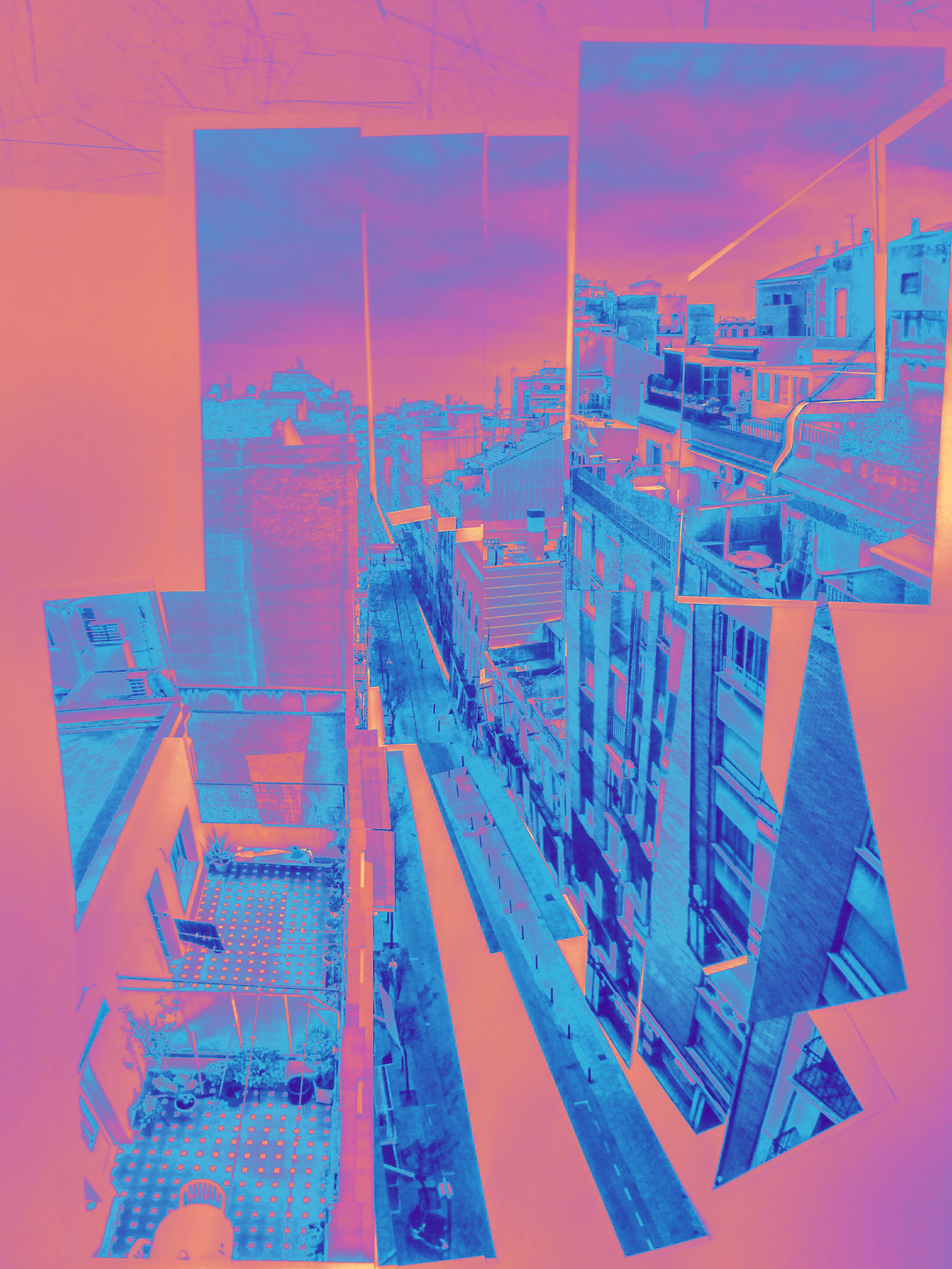
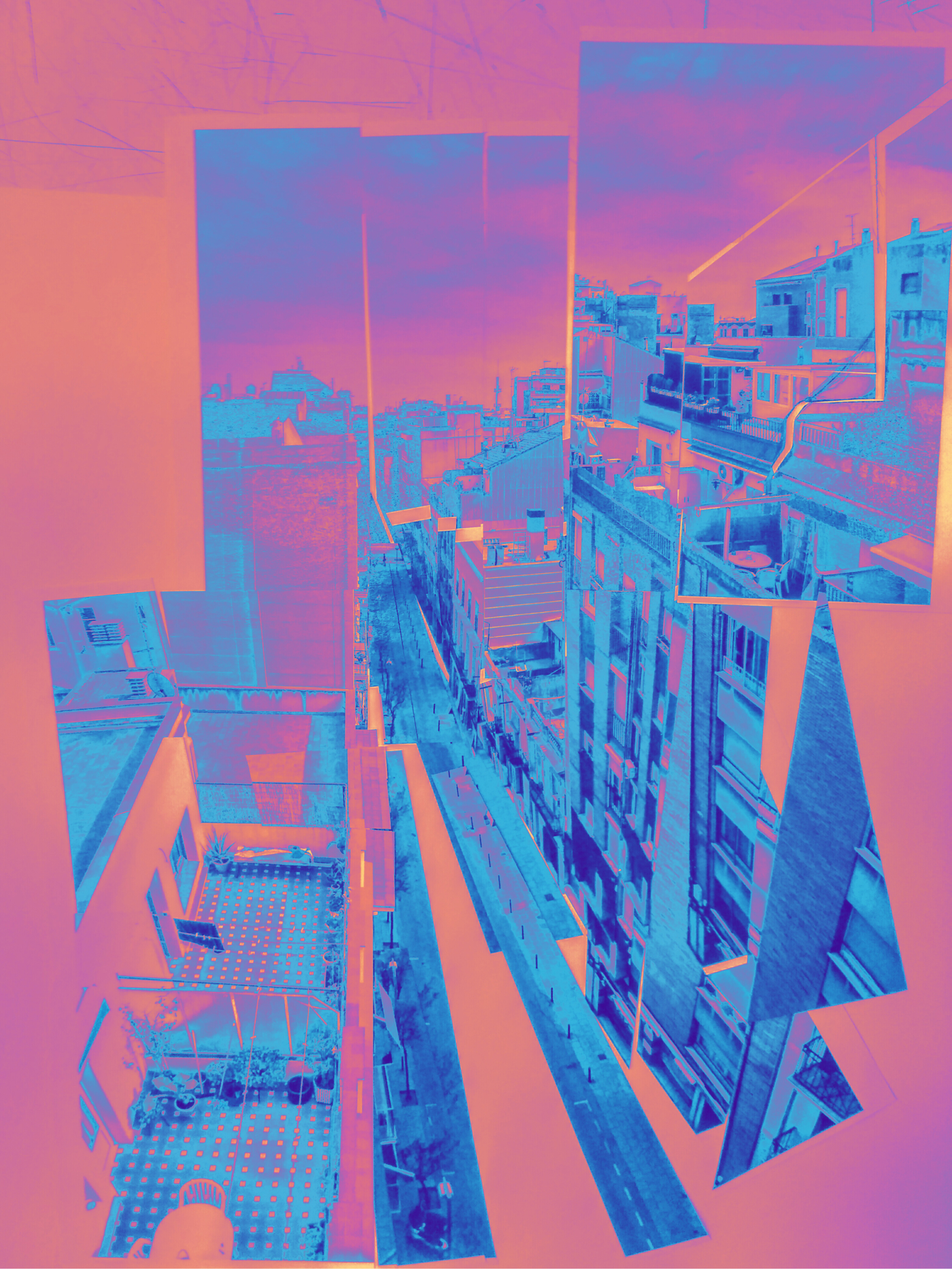
Refactor bg image and transitions

Changed region(s): [[0.3379, 0.9941, 0.4607, 1.0]]

diff --git a/_site/assets/js/common.js b/_site/assets/js/common.js
@@ -27,7 +27,7 @@ $(document).ready(function () {
 $(document).ready(function() {
     $(document).scroll(function(){
         if ($(document).scrollTop() > 280) {
-            $(".bg-image-holder").css({ opacity: '0' })
+            $(".bg-image-holder").css({ opacity: '0.02' })
             $("body").css({ backgroundColor: '#E8C4C9' })
         } else {
             $(".bg-image-holder").css({ opacity: '.25' })

diff --git a/assets/js/common.js b/assets/js/common.js
@@ -27,7 +27,7 @@ $(document).ready(function () {
 $(document).ready(function() {
     $(document).scroll(function(){
         if ($(document).scrollTop() > 280) {
-            $(".bg-image-holder").css({ opacity: '0' })
+            $(".bg-image-holder").css({ opacity: '0.02' })
             $("body").css({ backgroundColor: '#E8C4C9' })
         } else {
             $(".bg-image-holder").css({ opacity: '.25' })
